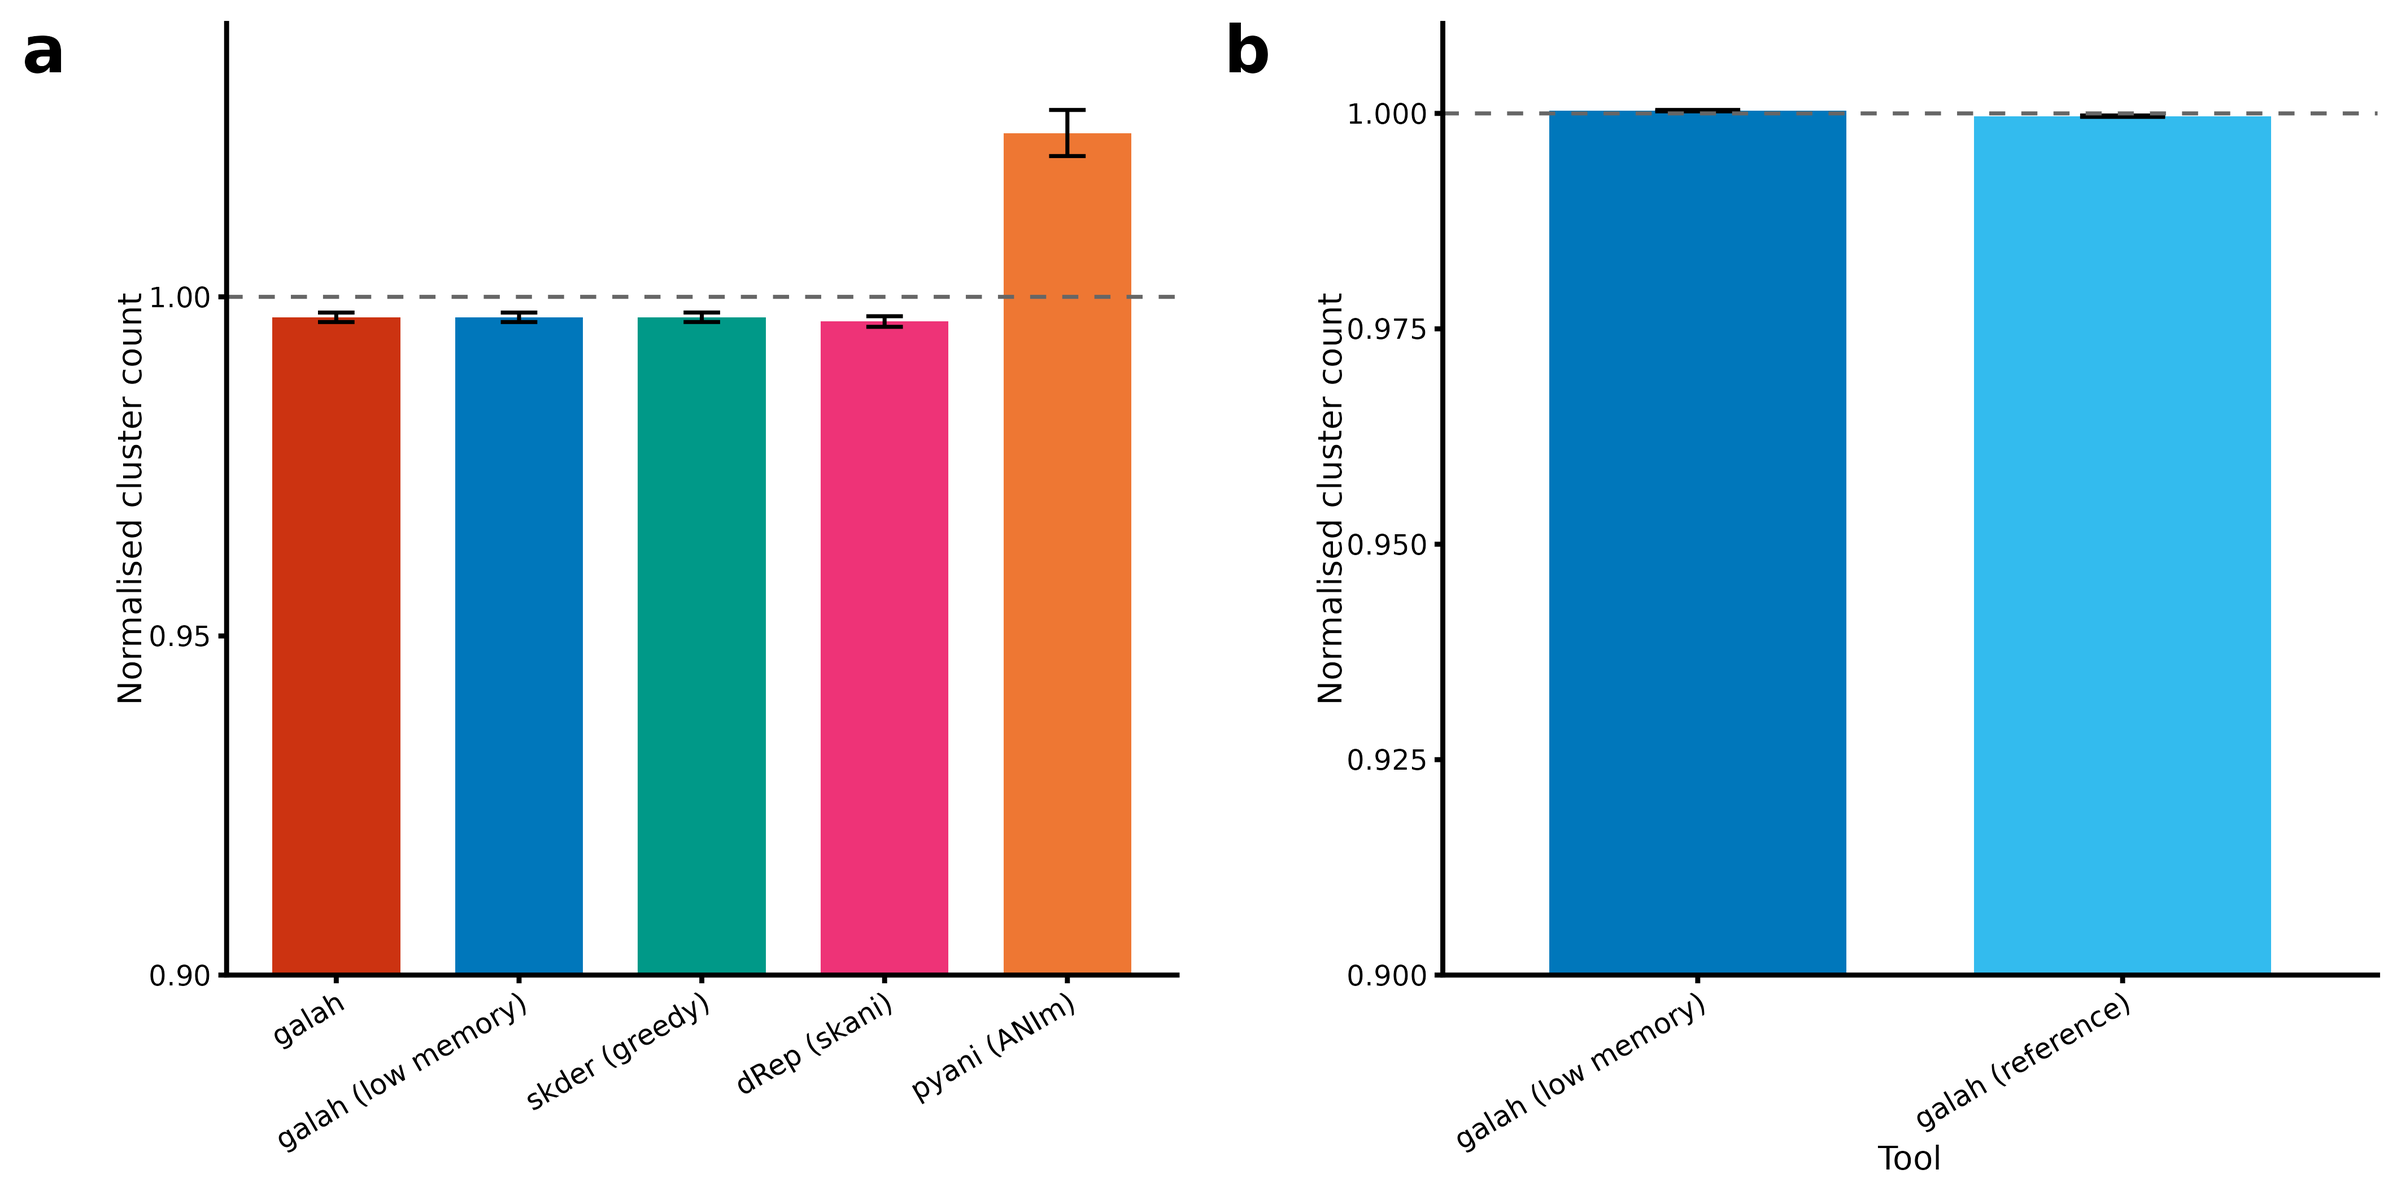
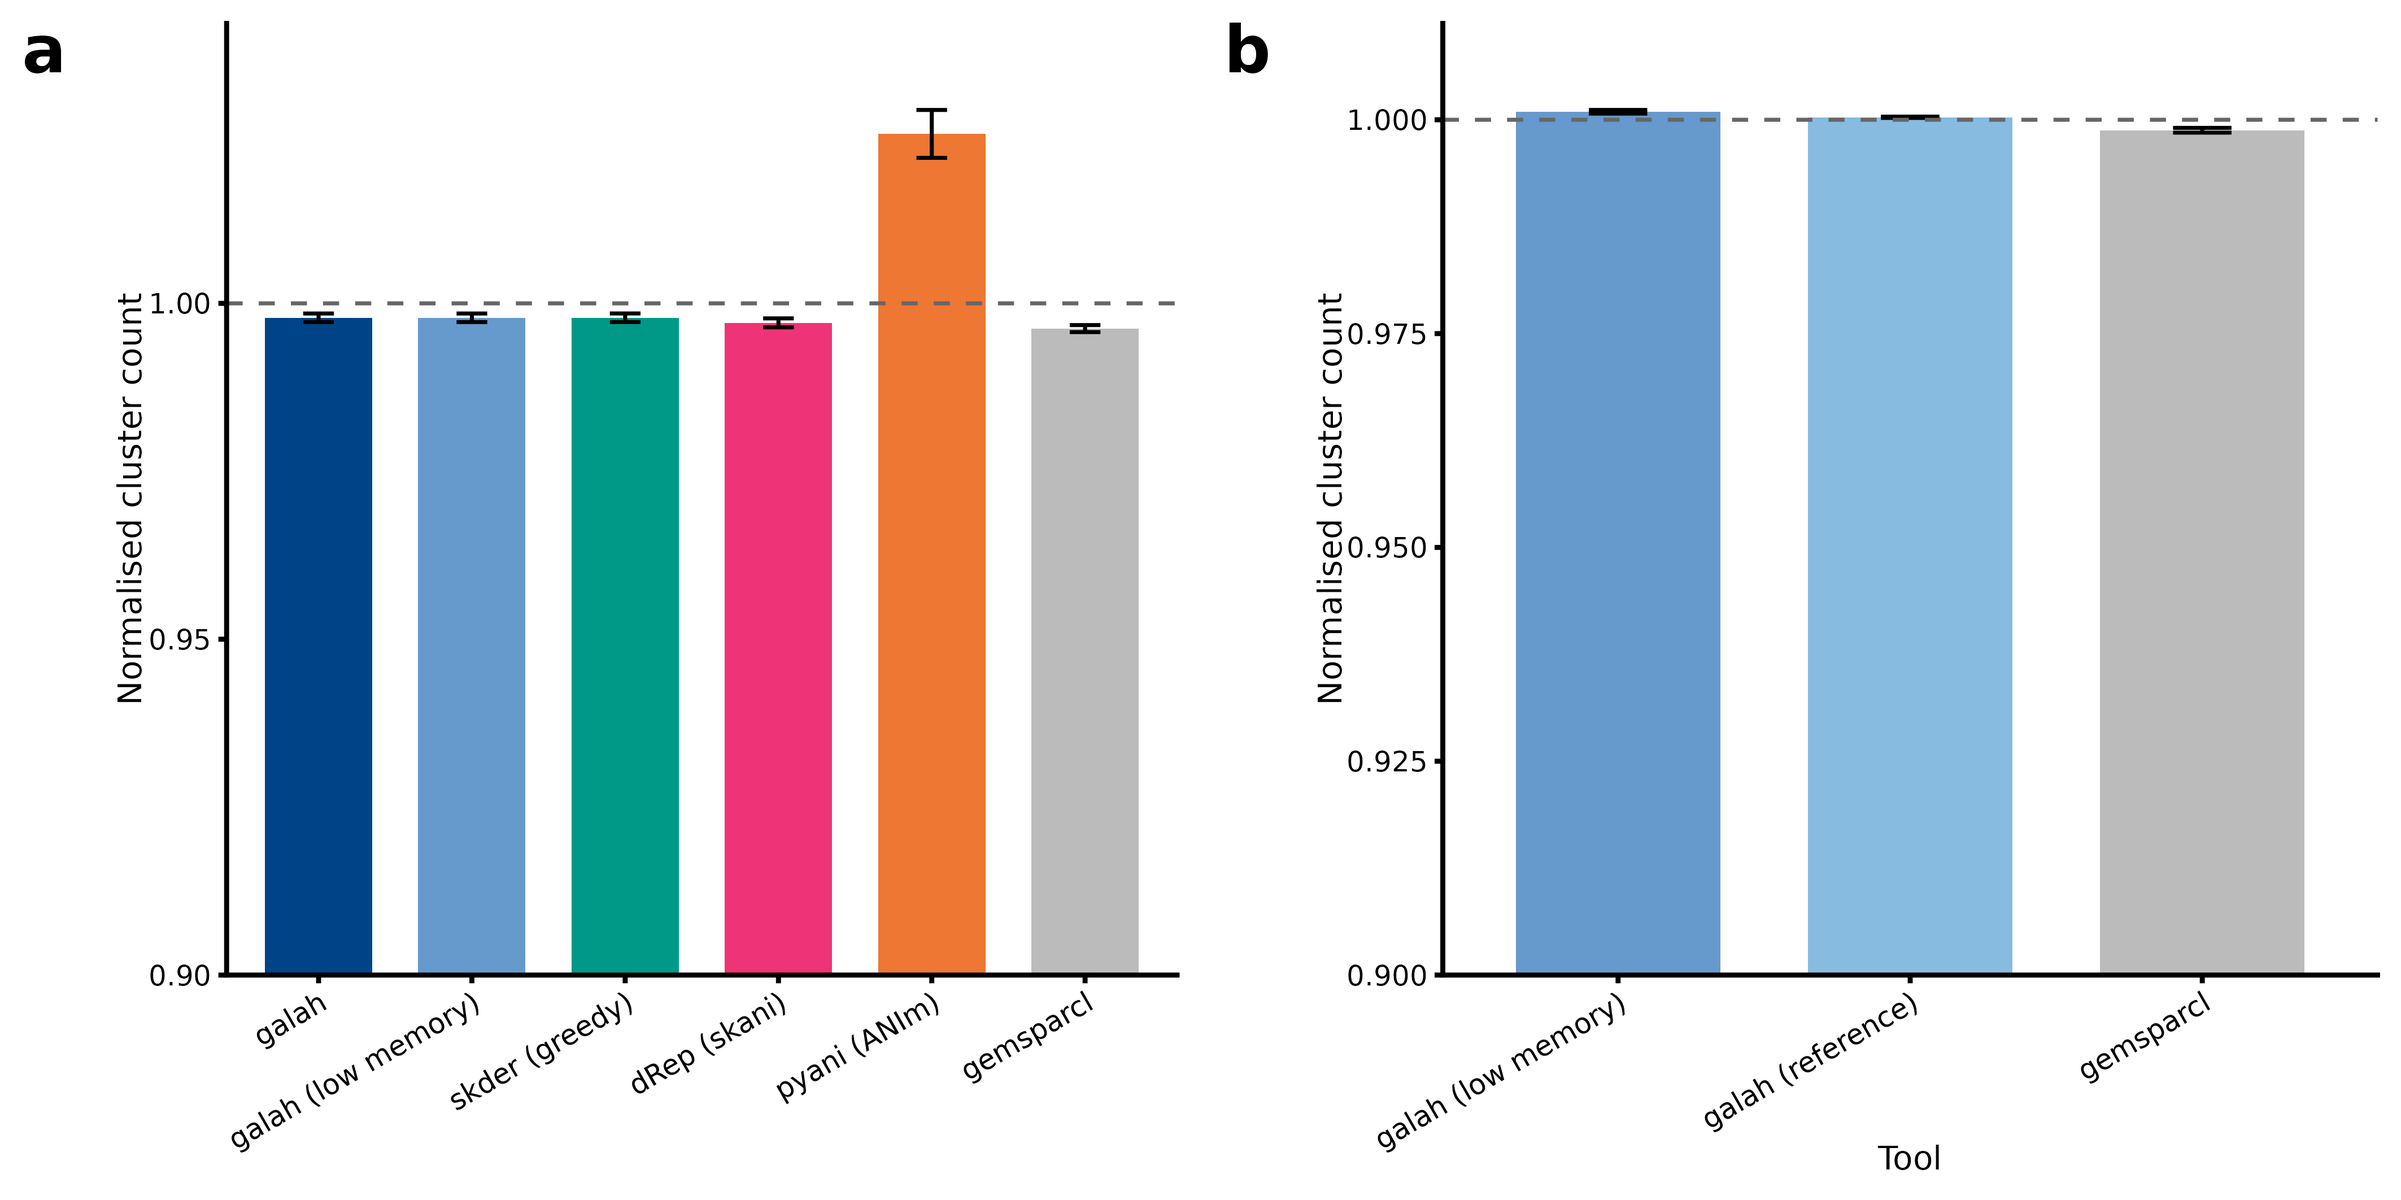
Docs: fix quality formula table, update benchmarks, note MIMAG eukaryote extension (#107)
* Fix quality formula table, update benchmarking figures and text, note MIMAG eukaryote extension

* Docs: render MIMAG note as paragraph, wrap long formulas in tables

* add pycache to gitignore

diff --git a/admin/build_docs.py b/admin/build_docs.py
@@ -4,6 +4,7 @@ import extern
 import logging
 import argparse
 import io
+import re
 from os.path import dirname, join
 import os
 
@@ -23,6 +24,33 @@ def get_version(relpath):
                 return line.split('"')[1]
             elif "'" in line:
                 return line.split("'")[1]
+
+
+def wrap_long_code(line):
+    """Allow long code spans in table rows (e.g. quality formulas) to wrap, since otherwise the
+    table overflows the page content area in Doctave."""
+    def wrap(match):
+        code = match.group(1)
+        if len(code) <= 40:
+            return match.group(0)
+        return "<code>" + re.sub(r"([-+/*])(?=[^<])", r"\1<wbr>", code) + "</code>"
+    return re.sub(r"`([^`]+)`", wrap, line)
+
+
+def fix_indented_tables(markdown):
+    """Pandoc indents option tables by two spaces under the option paragraph, which Markdown
+    renderers (e.g. Doctave) then treat as paragraph text. Dedent them to a standalone table."""
+    out = []
+    lines = markdown.split("\n")
+    for i, line in enumerate(lines):
+        if line.startswith("  |"):
+            if not lines[i - 1].startswith("  |") and out and out[-1].strip() != "":
+                out.append("")
+            line = line[2:]
+        if line.startswith("|"):
+            line = wrap_long_code(line)
+        out.append(line)
+    return "\n".join(out)
 
 
 if __name__ == '__main__':
@@ -48,7 +76,7 @@ if __name__ == '__main__':
         for subcommand in commands:
             cmd_stub = f"cargo run -- {subcommand} --full-help-roff |pandoc - -t markdown-multiline_tables-simple_tables-grid_tables -f man |sed 's/\\\\\\[/[/g; s/\\\\\\]/]/g; s/^: //'"
             logging.debug("May need to install pandoc (e.g. conda install pandoc)")
-            man_usage = extern.run(cmd_stub)
+            man_usage = fix_indented_tables(extern.run(cmd_stub))
 
             subcommand_prelude = f"docs/preludes/{subcommand}_prelude.md"
             if os.path.exists(subcommand_prelude):

diff --git a/docs/why.md b/docs/why.md
@@ -23,16 +23,16 @@ See the [Clustering](/#clustering) section of the docs for the full algorithm de
 
 ## Benchmarking
 
-We benchmarked galah against [skDER](https://github.com/raufs/skDER) (greedy clustering with skani), [dRep](https://drep.readthedocs.io/) (using skani), and [pyani](https://github.com/widdowquinn/pyani) (ANIm) at 100, 500, 1,000, 5,000, 10,000 and 50,000 genomes, using 32 CPUs, 250GB memory, and a 48-hour walltime limit.
+We benchmarked galah against [skDER](https://github.com/raufs/skDER) (greedy clustering with skani), [gemsparcl](https://doi.org/10.64898/2025.12.30.695181) (MinHash ANI and nearest-neighbour graph clustering), [dRep](https://drep.readthedocs.io/) (using skani), and [pyani](https://github.com/widdowquinn/pyani) (ANIm) at 100, 500, 1,000, 5,000, 10,000 and 50,000 genomes, using 32 CPUs, 250GB memory, and a 48-hour walltime limit.
 
-![Benchmarking of galah against skDER, dRep and pyani across genome catalogue sizes](/benchmarking_summary_figure.png)
+![Benchmarking of galah against skDER, dRep, pyani and gemsparcl across genome catalogue sizes](/benchmarking_summary_figure_lines.png)
 
-**Wall-clock time (a), CPU time (b) and peak memory (c) across catalogue sizes.**
+**Wall-clock time (a), CPU time (b) and peak memory (c) across catalogue sizes.** Points represent mean ± standard error of (a) total walltime, (b) CPU time, and (c) peak memory for each process. Jobs that exceeded either total RAM or walltime are not shown.
 
-pyani (ANIm) is dramatically slower than the other tools even at small scale, 1,000 genomes alone took over 20 hours wall-clock time, so it did not complete the larger benchmarks.
-dRep also becomes comparatively slow at larger scale, and was unable to complete within the resource limits at 50,000 genomes.
-galah, galah's low-memory mode, and skDER remain fast across the full range tested.
-At 50,000 genomes, galah's low-memory mode uses substantially less peak memory than either galah's default mode or skDER, at some cost to wall-clock/CPU time.
+Only galah, gemsparcl and skDER completed the full range within 48 hours.
+At 50,000 genomes, galah was faster (0.6 min, 15-16 GB) than both skDER (1.3-1.8 min, 47-50 GB) and gemsparcl (0.9 min, 0.4-0.5 GB), while gemsparcl used substantially less memory than either.
+dRep became progressively slower and more memory-hungry (55-96 min and 10-14 GB at 10,000 genomes) and did not complete within 48 hours at 50,000 genomes, while pyani exhausted memory at 5,000 genomes and above.
+galah's low-memory mode did not pay off at this scale: at 50,000 genomes it had both higher peak memory (18-19 GB) than galah's default mode and a longer runtime (6.7-6.9 min), suggesting any benefit would only emerge at genome counts beyond those tested here.
 
 Note that galah's preclustering step (grouping genomes roughly by ANI before fine-grained comparison) was previously important for performance with the older FastANI backend, but is no longer necessary now that skani is the default comparison method — skani itself is fast enough that comparing all genome pairs directly is practical at these scales.
 
@@ -41,21 +41,24 @@ Note that galah's preclustering step (grouping genomes roughly by ANI before fin
 Growing a genome catalogue over time usually means re-dereplicating everything from scratch against the new batch of genomes.
 Galah's `--reference-genomes` option instead lets new genomes be clustered directly against an already-dereplicated reference set: the new genomes are first dereplicated amongst themselves (so they don't need to be pre-dereplicated by the caller), and only the resulting representative(s) are then compared against the reference set - reference-vs-reference comparisons are never made, so only a small number of input-vs-reference comparisons are needed, rather than all-vs-all.
 
-We benchmarked this by clustering 100 to 50,000 input genomes against all 346,233 genomes in [GlobDB](https://globdb.org/) r232 as reference genomes, comparing galah's low-memory mode (clustering the input genomes together with all reference genomes) against galah's `--reference-genomes` mode (clustering the new genomes against the pre-existing reference set). No other tool benchmarked above was able to complete this comparison under the same resource limits.
+We benchmarked this by clustering 100 to 50,000 input genomes against all 346,233 genomes in [GlobDB](https://globdb.org/) r232 as reference genomes, comparing galah's low-memory mode (clustering the input genomes together with all reference genomes) against galah's `--reference-genomes` mode (clustering the new genomes against the pre-existing reference set) and gemsparcl.
 
-![Benchmarking galah low-memory mode against galah --reference-genomes mode with 346,233 GlobDB r232 reference genomes](/benchmarking_summary_figure_globdb.png)
+![Benchmarking galah low-memory mode against galah --reference-genomes mode and gemsparcl with 346,233 GlobDB r232 reference genomes](/benchmarking_summary_figure_lines_globdb.png)
 
-**Wall-clock time (a), CPU time (b) and peak memory (c) when clustering against 346,233 reference genomes.**
-`--reference-genomes` is several-fold faster in both wall-clock and CPU time than clustering all genomes together, and uses substantially less peak memory, since it avoids repeating comparisons among the reference genomes themselves.
+**Wall-clock time (a), CPU time (b) and peak memory (c) when clustering against 346,233 reference genomes.** Points represent mean ± standard error of (a) total walltime, (b) CPU time, and (c) peak memory for each process. Jobs that exceeded either total RAM or walltime are not shown.
+
+Only gemsparcl, galah in low-memory mode and galah in `--reference-genomes` mode completed the analysis; dRep exceeded the walltime limit, while skDER and galah's default mode exhausted available memory.
+galah's `--reference-genomes` mode was the fastest (11-13 min and 89-93 GB at 50,000 input genomes), but gemsparcl required the least memory (16 min and 1.3-4.8 GB at 50,000 input genomes).
+`--reference-genomes` mode was also substantially faster and required considerably less memory than galah's low-memory mode (372-408 min and 155 GB at 50,000 input genomes), because it greatly reduces the number of pairwise comparisons required.
 
 ## Consistency of cluster assignments
 
-Despite the large resource differences, cluster assignments are highly consistent between tools across both benchmarks, with the exception of pyani which uses a different clustering method:
+Cluster counts were fairly stable across tools in both benchmarks, with the exception of pyani, which uses a different clustering method and reported more clusters on average than the other tools (3% more, normalised by the mean across tools):
 
 ![Normalised cluster counts relative to the mean across tools](/benchmarking_clusters_summary_figure.png)
 
-**Cluster counts, normalised as (n − mean) / mean across tools, for (a) the benchmark above and (b) the reference-genome benchmark below.**
-galah, galah (low memory), skDER and dRep all agree to within a fraction of a percent. pyani is the outlier, consistently producing more clusters than the ANI/skani-based tools. galah (low memory) and galah (reference genomes) are also highly consistent, with only a few clusters differing between the two methods.
+**Cluster counts, normalised by the mean across tools, for (a) the first benchmark and (b) the GlobDB reference-genome benchmark.** Points represent mean ± standard error.
+In (a), galah, galah (low memory), skDER, dRep and gemsparcl agree to within a fraction of a percent. In (b), galah (low memory), galah (reference genomes) and gemsparcl are also highly consistent.
 
 ## Eukaryotic genomes
 

diff --git a/docs/tools/process.md b/docs/tools/process.md
@@ -136,6 +136,8 @@ galah process \
 | Medium quality | Completeness ≥ 50%, contamination < 10% (and not High quality) |
 | Low quality | Completeness < 50% or contamination ≥ 10% |
 
+**Note:** MIMAG defines its quality criteria for bacteria and archaea only. Galah extends MIMAG to eukaryotes by requiring eukaryotic rRNA genes (18S, 28S, 5.8S and 5S) in place of the bacterial/archaeal 5S/16S/23S rRNAs for High quality, and otherwise keeping the thresholds the same (completeness, contamination and tRNA count).
+
 See `galah analyse --full-help` for a full description of the `--output-mimag-summary` output format,
 and `galah cluster --full-help` for clustering-specific parameters.
 
@@ -319,13 +321,13 @@ Length of fragment used in FastANI calculation (i.e. `--fragLen`).
 Scoring function for genome quality [default: `Parks2020_reduced`].
   One of:
 
-  | formula | description |
-  |:---|:---|
-  | `Parks2020_reduced` | (default) A quality formula described in Parks et. al. 2020 https://doi.org/10.1038/s41587-020-0501-8 (Supplementary Table 19) but only including those scoring criteria that can be calculated from the sequence without homology searching: `completeness-5*contamination-5*num_contigs/100-5*num_ambiguous_bases/100000` |
-  | `Parks2020_reduced_hqpreferred` | As `Parks2020_reduced`, but genomes are first ranked by MIMAG quality tier (High, then Medium, then Low), so e.g. a Medium quality genome that is missing a 16S rRNA gene is never preferred over a High quality one. Requires the MIMAG quality assessment from the analyse step, so cannot be used with reference genomes. |
-  | `completeness-4contamination` | `completeness-4*contamination` |
-  | `completeness-5contamination` | `completeness-5*contamination` |
-  | `dRep` | `completeness-5*contamination+contamination*(strain_heterogeneity/100)+0.5*log10(N50)` |
+| formula | description |
+|:---|:---|
+| `Parks2020_reduced` | (default) A quality formula described in Parks et. al. 2020 https://doi.org/10.1038/s41587-020-0501-8 (Supplementary Table 19) but only including those scoring criteria that can be calculated from the sequence without homology searching: <code>completeness-<wbr>5*<wbr>contamination-<wbr>5*<wbr>num_contigs/<wbr>100-<wbr>5*<wbr>num_ambiguous_bases/<wbr>100000</code> |
+| `Parks2020_reduced_hqpreferred` | As `Parks2020_reduced`, but genomes are first ranked by MIMAG quality tier (High, then Medium, then Low), so e.g. a Medium quality genome that is missing a 16S rRNA gene is never preferred over a High quality one. Requires the MIMAG quality assessment from the analyse step, so cannot be used with reference genomes. |
+| `completeness-4contamination` | `completeness-4*contamination` |
+| `completeness-5contamination` | `completeness-5*contamination` |
+| `dRep` | <code>completeness-<wbr>5*<wbr>contamination+<wbr>contamination*<wbr>(strain_heterogeneity/<wbr>100)+<wbr>0.5*<wbr>log10(N50)</code> |
 
 **\--precluster-ani** *FLOAT*
 

diff --git a/docs/tools/cluster.md b/docs/tools/cluster.md
@@ -123,12 +123,12 @@ Length of fragment used in FastANI calculation (i.e. `--fragLen`).
 Scoring function for genome quality [default: `Parks2020_reduced`].
   One of:
 
-  | formula | description |
-  |:---|:---|
-  | `Parks2020_reduced` | (default) A quality formula described in Parks et. al. 2020 https://doi.org/10.1038/s41587-020-0501-8 (Supplementary Table 19) but only including those scoring criteria that can be calculated from the sequence without homology searching: `completeness-5*contamination-5*num_contigs/100-5*num_ambiguous_bases/100000` |
-  | `completeness-4contamination` | `completeness-4*contamination` |
-  | `completeness-5contamination` | `completeness-5*contamination` |
-  | `dRep` | `completeness-5*contamination+contamination*(strain_heterogeneity/100)+0.5*log10(N50)` |
+| formula | description |
+|:---|:---|
+| `Parks2020_reduced` | (default) A quality formula described in Parks et. al. 2020 https://doi.org/10.1038/s41587-020-0501-8 (Supplementary Table 19) but only including those scoring criteria that can be calculated from the sequence without homology searching: <code>completeness-<wbr>5*<wbr>contamination-<wbr>5*<wbr>num_contigs/<wbr>100-<wbr>5*<wbr>num_ambiguous_bases/<wbr>100000</code> |
+| `completeness-4contamination` | `completeness-4*contamination` |
+| `completeness-5contamination` | `completeness-5*contamination` |
+| `dRep` | <code>completeness-<wbr>5*<wbr>contamination+<wbr>contamination*<wbr>(strain_heterogeneity/<wbr>100)+<wbr>0.5*<wbr>log10(N50)</code> |
 
 **\--precluster-ani** *FLOAT*
 

diff --git a/docs/preludes/analyse_prelude.md b/docs/preludes/analyse_prelude.md
@@ -128,3 +128,5 @@ The `--output-mimag-summary` TSV contains one row per genome with these columns:
 | High quality | Completeness ≥ 90%, contamination < 5%, all eukaryotic rRNAs (≥ 1 each of 18S, 28S, 5.8S and 5S), ≥ 18 tRNA types |
 | Medium quality | Completeness ≥ 50%, contamination < 10% (and not High quality) |
 | Low quality | Completeness < 50% or contamination ≥ 10% |
+
+**Note:** MIMAG defines its quality criteria for bacteria and archaea only. Galah extends MIMAG to eukaryotes by requiring eukaryotic rRNA genes (18S, 28S, 5.8S and 5S) in place of the bacterial/archaeal 5S/16S/23S rRNAs for High quality, and otherwise keeping the thresholds the same (completeness, contamination and tRNA count).

diff --git a/docs/preludes/process_prelude.md b/docs/preludes/process_prelude.md
@@ -128,5 +128,7 @@ galah process \
 | Medium quality | Completeness ≥ 50%, contamination < 10% (and not High quality) |
 | Low quality | Completeness < 50% or contamination ≥ 10% |
 
+**Note:** MIMAG defines its quality criteria for bacteria and archaea only. Galah extends MIMAG to eukaryotes by requiring eukaryotic rRNA genes (18S, 28S, 5.8S and 5S) in place of the bacterial/archaeal 5S/16S/23S rRNAs for High quality, and otherwise keeping the thresholds the same (completeness, contamination and tRNA count).
+
 See `galah analyse --full-help` for a full description of the `--output-mimag-summary` output format,
 and `galah cluster --full-help` for clustering-specific parameters.

diff --git a/docs/tools/analyse.md b/docs/tools/analyse.md
@@ -133,6 +133,8 @@ The `--output-mimag-summary` TSV contains one row per genome with these columns:
 | Medium quality | Completeness ≥ 50%, contamination < 10% (and not High quality) |
 | Low quality | Completeness < 50% or contamination ≥ 10% |
 
+**Note:** MIMAG defines its quality criteria for bacteria and archaea only. Galah extends MIMAG to eukaryotes by requiring eukaryotic rRNA genes (18S, 28S, 5.8S and 5S) in place of the bacterial/archaeal 5S/16S/23S rRNAs for High quality, and otherwise keeping the thresholds the same (completeness, contamination and tRNA count).
+
 # GENOME INPUT
 
 **-f**, **\--genome-fasta-files** *PATH ..*
